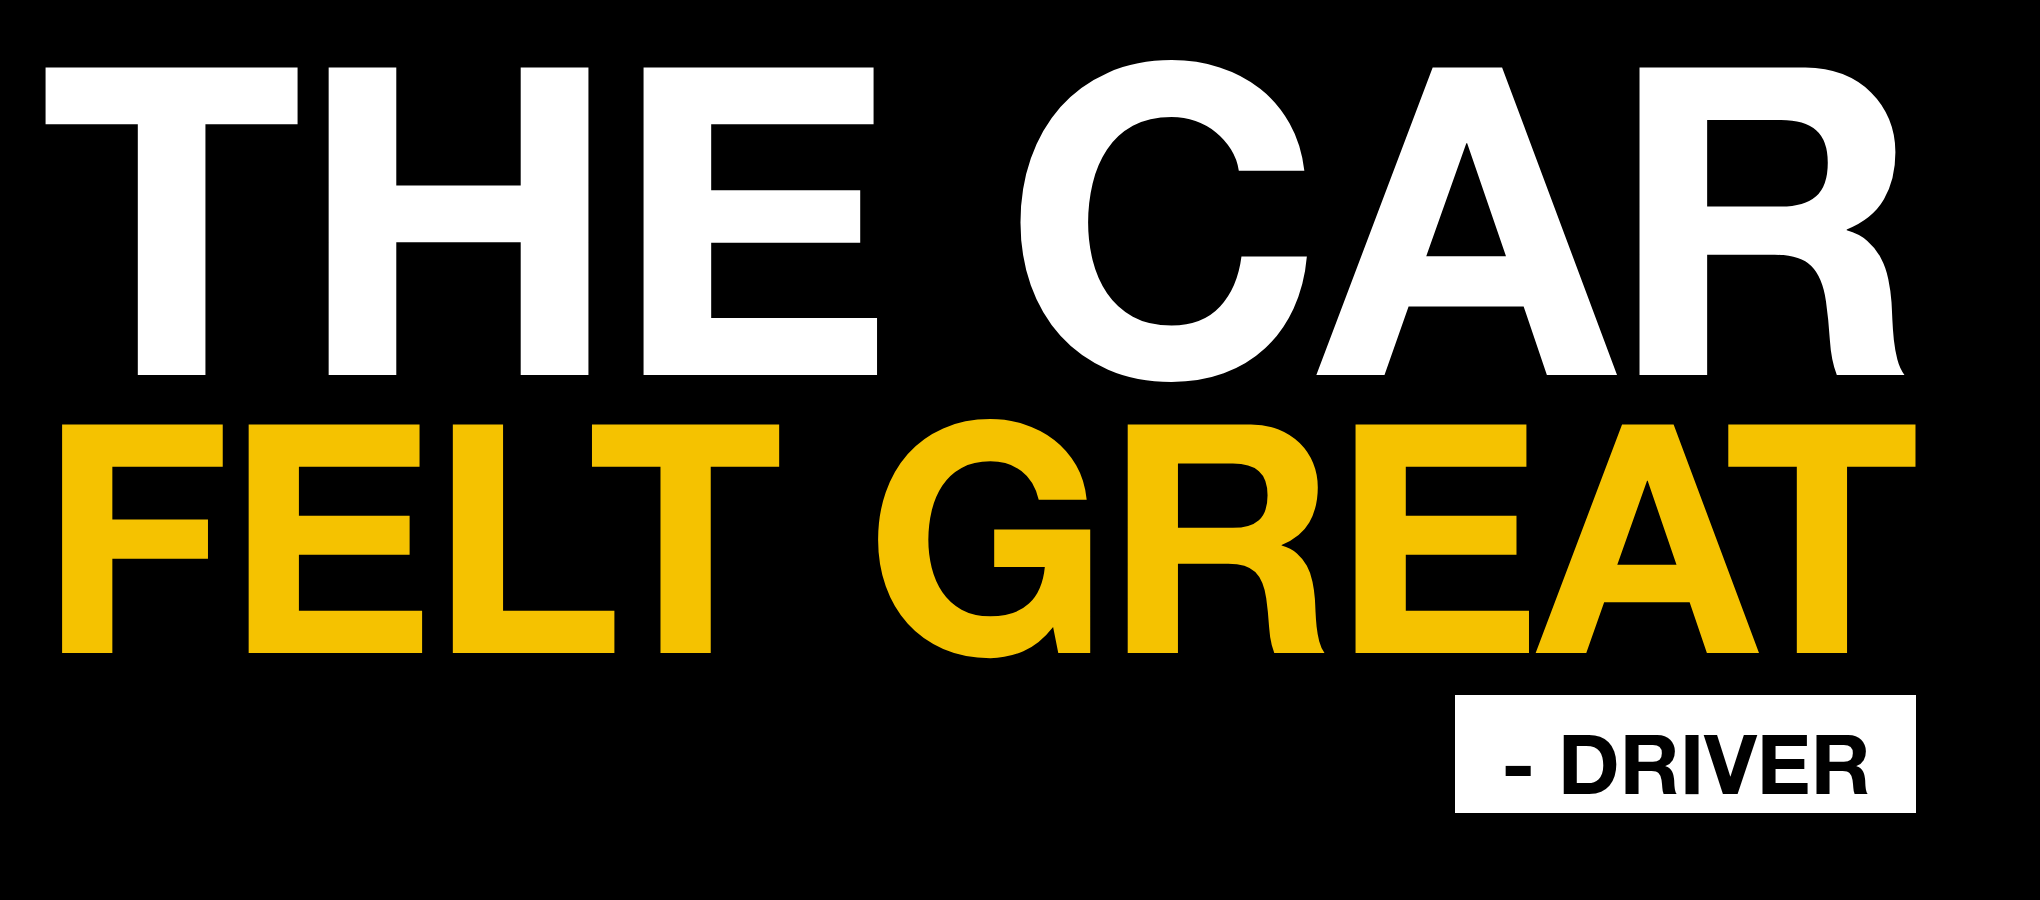
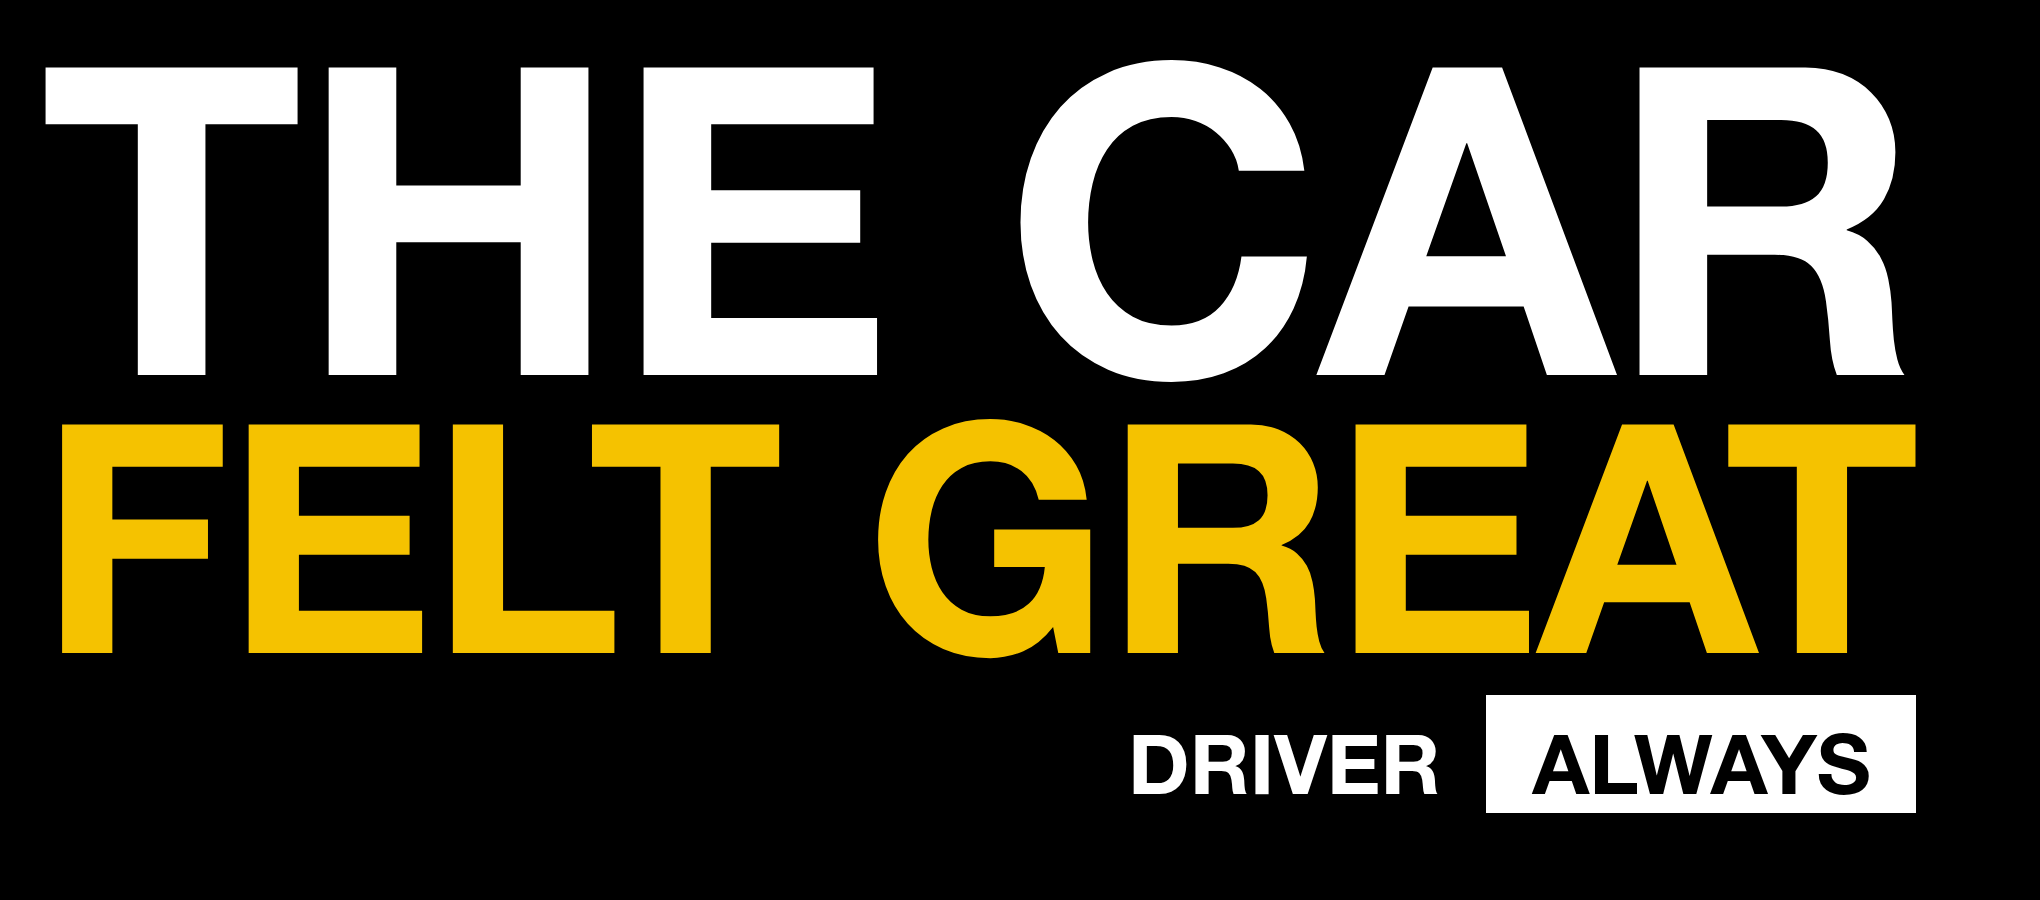
Tee attribution is a two-part corner label: DRIVER | ALWAYS
The lone boxed '- DRIVER' was the one case the corner-label rule says to
skip. Now plain DRIVER on the left, boxed ALWAYS on the right, flush under
the ink edge, per Ian. Label copy comes in as ?fact=&name= and is
upper-cased in the page so variants render without edits.

Claude-Session: https://claude.ai/code/session_019tmHrDHQ6vYCtp1fHTagqX

Changed region(s): [[0.5559, 0.7778, 0.9265, 0.9022]]

diff --git a/packages/merch/car-felt-great/mockup.html b/packages/merch/car-felt-great/mockup.html
@@ -15,6 +15,8 @@
   Variants:
     &variant=two-tone   setup line white, punch line Spark (default)
     &variant=mono       one ink, all white — for a single-ink sellable
+  Label copy:
+    &fact=driver&name=always   plain left part / boxed right part (defaults shown)
 -->
 <script id="tokens" type="application/json">__TOKENS__</script>
 <style>
@@ -78,9 +80,13 @@
   .punch { font-size: var(--punch-size); } /* overwritten by fit(): solved from --print-width */
   .setup { font-size: var(--punch-size); } /* overwritten by fit(): matched to the punch width */
 
-  /* attribution = the punchline, small, in the corner-label idiom: a white box on a
-     dark ground, all caps, 0.32em 0.55em padding, square corners. Right-anchored,
-     so the box is the outer (right) part. */
+  /* attribution = the punchline, small, as a real two-part corner label (HANDOFF
+     §Corner labels): two flush parts, no gap, all caps, 0.32em 0.55em padding,
+     square corners. Right-anchored under the quote, so the box is the outer
+     (right) part and the plain left part matches the frame — white on the black
+     garment. Left = DRIVER (the role, one anonymous driver who could be any of
+     them), right = the kicker in the box, where a lower third would put the
+     name. Copy comes in via ?fact=&name= so variants render without editing. */
   .attrib {
     align-self: flex-end;
     display: inline-flex;
@@ -89,7 +95,7 @@
     margin-top: 0.42em;
     font-size: calc(var(--punch-size) * 0.26); /* small, as briefed, but not below ~12mm caps on a 12in print */
   }
-  .attrib .cl-box {
+  .attrib .cl-part {
     font-family: "Helvetica Neue", Helvetica, Arial, sans-serif;
     font-weight: 700;
     text-transform: uppercase;
@@ -98,9 +104,9 @@
     white-space: nowrap;
     padding: var(--cl-padding);
     line-height: 1;
-    background: var(--cl-box-bg);
-    color: var(--cl-box-color);
   }
+  .attrib .cl-plain { background: transparent; color: var(--cl-plain-color); }
+  .attrib .cl-box   { background: var(--cl-box-bg); color: var(--cl-box-color); }
 
   /* ---- artwork view: just the print, transparent ground ---- */
   body.artwork { background: var(--garment); } /* the print previewed on the garment colour it ships on */
@@ -222,7 +228,7 @@
     <div class="art" id="art">
       <div class="tier setup" id="setup"><span>The car</span></div>
       <div class="tier punch" id="punch"><span>Felt great</span></div>
-      <div class="attrib"><span class="cl-box">- Driver</span></div>
+      <div class="attrib"><span class="cl-part cl-plain" id="fact">Driver</span><span class="cl-part cl-box" id="name">Always</span></div>
     </div>
 
     <!-- knit over the ink: screen-printed plastisol still shows the weave -->
@@ -253,6 +259,10 @@
   root.setProperty("--cl-padding", T.cornerLabel.partPadding);
   root.setProperty("--cl-box-bg", T.cornerLabel.onDark.boxBg);
   root.setProperty("--cl-box-color", T.cornerLabel.onDark.boxColor);
+  root.setProperty("--cl-plain-color", T.cornerLabel.onDark.plainColor);
+  // label copy: caps are enforced here, not left to whoever types the query (HANDOFF 2026-07-23)
+  if (q.get("fact")) document.getElementById("fact").textContent = q.get("fact").toUpperCase();
+  if (q.get("name")) document.getElementById("name").textContent = q.get("name").toUpperCase();
   root.setProperty("--punch-size", (q.get("punch") || 66) + "px");
 
   const stage = document.getElementById("stage");

diff --git a/HANDOFF.md b/HANDOFF.md
@@ -152,10 +152,16 @@ rendered PNGs); see `packages/merch/README.md`.
 file), all caps, widths matched by measuring the rendered text in the page
 (both lines land at the same px, verified from the DOM). Spark is the mood pick
 because the line *claims* a payoff — that is the joke. The attribution is a
-corner-label box (white box, black text, 0.32em 0.55em), right-anchored under
-the quote so the box is the outer part, flush with the ink edge. It reads
-`- DRIVER` with a plain hyphen: the Brains note was typed that way and
-`PRODUCT.md` bans em dashes in copy. Tracking is the guide's `.hero-line`
+real two-part corner label, `DRIVER | ALWAYS` (Ian, 2026-09-10): plain
+`DRIVER` in white on the left, `ALWAYS` in the white box on the right, flush
+under the ink edge of FELT GREAT, 0.32em 0.55em padding, no gap. It started as
+a lone boxed `- DRIVER`, which was the one case the corner-label rule says to
+skip (a single boxed part with nothing beside it). Ian's steer: singular
+DRIVER, because it is one anonymous driver being quoted who could be any of
+them, and the box is where a lower third would put the name. Copy is passed as
+`?fact=&name=` and upper-cased in the page, so variants render without edits
+(`EVER`, `UNKNOWN`, `UNVERIFIED`, `ALLEGEDLY` and `PARKED` were the other
+candidates). Tracking is the guide's `.hero-line`
 value, -0.01em, since this is a hero lockup rather than a page heading.
 
 **Mockup choices, none of them brand values:** the backdrop is
@@ -183,9 +189,9 @@ white) while exiting 0. The script now matches the whole `<script id="tokens">`
 tag. Same failure class as the lower-third clip: a render that exits 0 proves
 nothing — look at the PNG.
 
-**Open, Ian's calls:** (1) Spark or Grit for the punch line — the quote is the
-struggle beat dressed as a payoff, and the earnest victory-yellow is the joke
-as built, but nobody has said so out loud. (2) Whether the garment carries an
+**Locked 2026-09-10:** the two-tone (white + Spark) version, over the
+single-ink white. **Open, Ian's calls:** (1) Grit was never tried for the punch
+line; Spark stands. (2) Whether the garment carries an
 OIO mark at all (back neck or sleeve circle per §The circle); the brief's
 "type-only" was about the front. (3) The `mono` (single-ink, all white) variant
 exists because Spreadshop fixes ink colour per sellable, so a two-colour print
